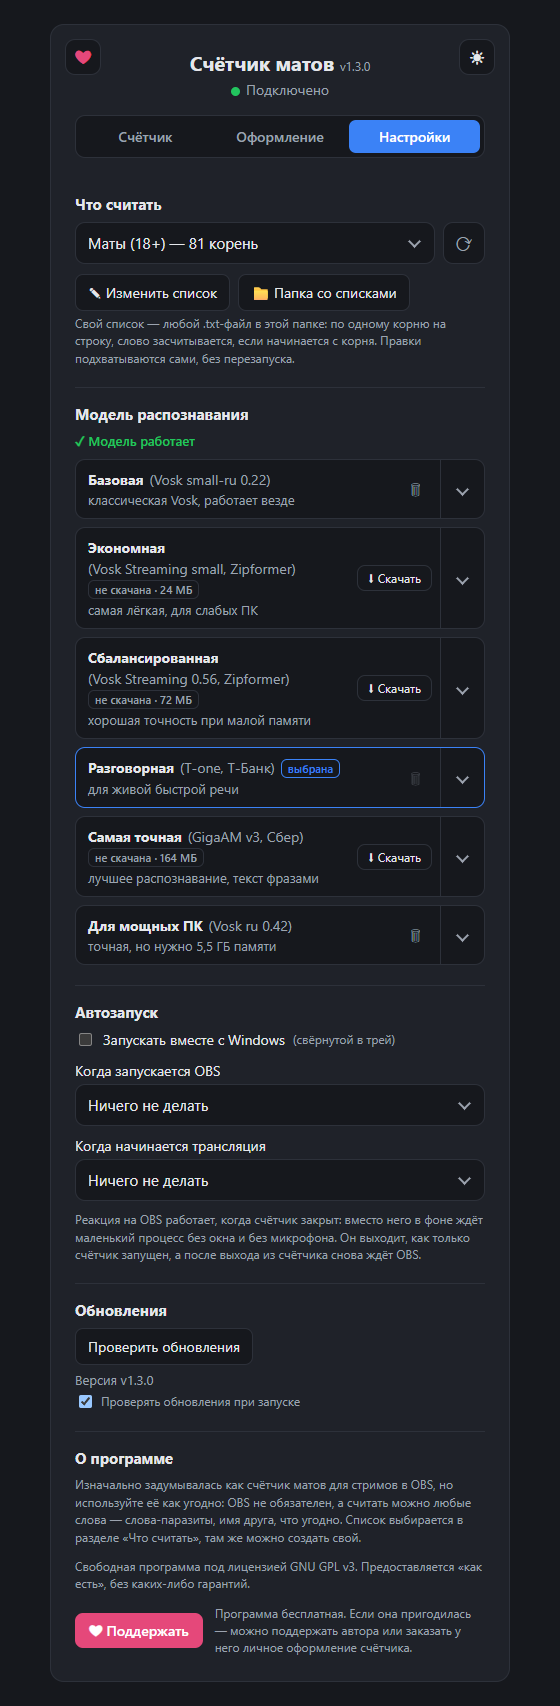
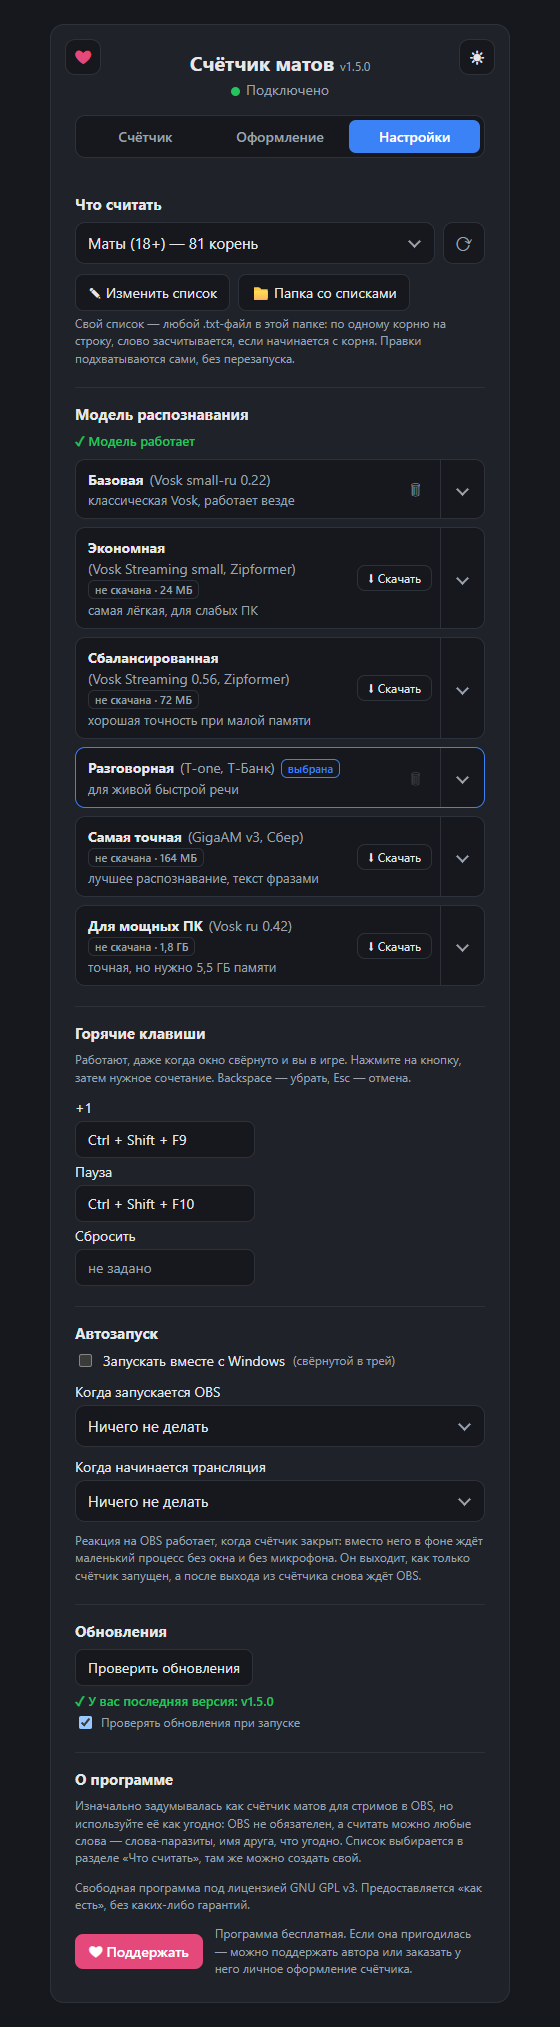
README matches release v1.5.0; fresh screenshots

diff --git a/README.md b/README.md
@@ -8,7 +8,6 @@
 
 [![Скачать](https://img.shields.io/github/v/release/vvallikk/SwearCounter?label=%D0%A1%D0%BA%D0%B0%D1%87%D0%B0%D1%82%D1%8C&style=for-the-badge)](https://github.com/vvallikk/SwearCounter/releases/latest)
 ![Windows 10/11](https://img.shields.io/badge/Windows-10%20%7C%2011-0078D6?style=for-the-badge)
-![macOS и Linux](https://img.shields.io/badge/macOS%20%7C%20Linux-%D0%B8%D0%B7%20%D0%B8%D1%81%D1%85%D0%BE%D0%B4%D0%BD%D0%B8%D0%BA%D0%BE%D0%B2-555555?style=for-the-badge)
 ![Офлайн](https://img.shields.io/badge/%D1%80%D0%B0%D0%B1%D0%BE%D1%82%D0%B0%D0%B5%D1%82-%D0%BE%D1%84%D0%BB%D0%B0%D0%B9%D0%BD-2ea44f?style=for-the-badge)
 
 [![Поддержать на Boosty](https://img.shields.io/badge/Boosty-%D0%BF%D0%BE%D0%B4%D0%B4%D0%B5%D1%80%D0%B6%D0%B0%D1%82%D1%8C-F15F2C?style=for-the-badge&logo=boosty&logoColor=white)](https://boosty.to/walikk/single-payment/donation/834276/target?share=target_link)
@@ -21,7 +20,7 @@
 > [!IMPORTANT]
 > **🔒 Ваш голос не записывается и никуда не уходит.** Речь распознаётся прямо на вашем
 > компьютере, без серверов и облаков. Программа не сохраняет ни звук, ни текст сказанного:
-> на диске остаются только счёт, статистика по найденным словам и настройки. Подробнее в разделе [Приватность](#-приватность).
+> на диске остаются только счёт и настройки. Подробнее в разделе [Приватность](#-приватность).
 
 Ругнулся, и на экране "+1" со звуком "дилинь". Не нужно жать кнопки или вести счёт вручную:
 программа слушает микрофон и считает сама.
@@ -44,29 +43,13 @@
 - 💾 **Счёт не теряется.** Он сохраняется после перезапуска программы или компьютера.
 - 🖱 **Ручное управление.** Кнопки "+1" и "Сбросить", если нужно поправить счёт.
 - ⏸ **Пауза распознавания** в окне и в трее: на перерыв, катсцену или чужой голос.
-- ⏱ **Таймер "без мата".** Сколько удалось продержаться и рекорд за сессию: в окне программы
-  и отдельным источником для OBS.
-- 🎯 **Цели и пороги.** Звёзды и фанфары на 10-м, 50-м, 100-м слове (числа настраиваются)
-  и отсчёт "осталось N до наказания" для челленджей: в окне программы и отдельным источником.
-- 📊 **Статистика сессий.** Сколько слов за каждую сессию, самые частые слова, график
-  и выгрузка таблицей CSV для Excel.
 - ⌨ **Горячие клавиши.** "+1", пауза и сброс работают, даже когда окно свёрнуто и вы в игре.
 - 📝 **Списки слов.** Готовые "Маты (18+)" и "Слова-паразиты" переключаются в окне программы.
   Свой список можно сделать в обычном текстовом файле, правки подхватываются на ходу.
-- 🔢 **Несколько счётчиков сразу.** Например, маты и слова-паразиты отдельно: у каждого
-  свой список слов, свой оверлей, оформление и подпись.
-- 📡 **Связь с OBS и Streamer.bot.** Автосброс счёта в начале трансляции или записи и смена
-  сцены по порогу. Команда `!маты` в чате Twitch и другие связки через
-  [Streamer.bot](docs/STREAMERBOT.md).
 - 🚀 **Запускается сама.** Вместе с Windows, при запуске OBS или в начале трансляции.
   Можно вместо запуска просто напомнить уведомлением.
-- 🧠 **Одиннадцать моделей распознавания.** Семь для русской речи, от экономной до самой точной
-  и устойчивого к шуму Whisper, и четыре для английской. Скачиваются и удаляются в один клик, переключаются без перезапуска.
-- 🇬🇧 **Английская речь.** Свои модели и готовые списки "English swear words" и "English filler words".
-- 🌍 **Интерфейс на английском.** Окно программы, трей и уведомления переключаются кнопкой
-  "EN" / "RU" в углу окна. Сначала выбирается по языку системы.
-- 🍎 **macOS и Linux.** Запуск из исходников, страница управления открывается в браузере
-  ([как запустить](#macos-и-linux)).
+- 🧠 **Шесть моделей распознавания.** От экономной до самой точной: скачиваются и удаляются
+  в один клик, переключаются без перезапуска.
 - 🔄 **Обновляется сама.** Сообщит о новой версии и установит её в один клик.
 - ✨ **Личные оформления.** Свой стиль, анимация и звук. Можно сделать самому
   [по инструкции](docs/PRESETS.md) или заказать у автора прямо из программы.
@@ -80,9 +63,7 @@
   серверы: ни автору, ни сторонним сервисам.
 - **Ничего не записывается.** Программа не сохраняет звук и не ведёт расшифровку:
   распознанная фраза сразу проверяется на нужные слова и забывается. На диске остаются
-  только счёт, настройки, ваши списки слов, технический журнал, в котором нет сказанного,
-  и статистика: время каждой сессии и сколько раз прозвучал каждый корень из списка слов
-  (без остального текста). Статистику можно очистить кнопкой в окне программы.
+  только счёт, настройки, ваши списки слов и технический журнал, в котором нет сказанного.
 - **Окно программы и оверлей доступны только с этого компьютера.** Встроенный сервер
   работает на адресе `localhost`, а сторонние сайты, открытые в браузере, не могут к нему обратиться.
 - **Интернет нужен только** для скачивания модели, проверки обновлений на GitHub и установки
@@ -92,7 +73,22 @@
 
 ## 🛠 В планах
 
-Всё, что было в планах, уже сделано. Если хотите что-то ещё, напишите в [Issues](https://github.com/vvallikk/SwearCounter/issues).
+- 🌍 **Английский язык.** Интерфейс на английском и распознавание английской речи
+  со своими списками слов.
+- 🧠 **Ещё один движок распознавания.** Сейчас на выбор шесть моделей: Vosk, T-one и GigaAM,
+  от экономной до самой точной. Следующий шаг: Whisper.
+- 🔢 **Несколько счётчиков сразу.** Например, маты и слова-паразиты отдельно, каждый
+  со своим оверлеем и оформлением.
+- 📊 **Статистика и история сессий.** Сколько слов за каждую сессию, самые частые слова,
+  график, выгрузка в CSV.
+- 🎯 **Цели и пороги.** Особая анимация и звук на 10-м, 50-м, 100-м слове или отсчёт
+  "осталось N до наказания" для челленджей.
+- 📡 **Связь с OBS и стрим-сервисами.** Автосброс при старте записи или трансляции, смена сцены по порогу,
+  команда `!маты` в чате Twitch, события для Streamer.bot.
+- ⏱ **Таймер "без мата".** Сколько удалось продержаться и рекорд за сессию.
+- 🍎 **macOS и Linux**, а не только Windows.
+
+Порядок не окончательный. Если хотите что-то ещё, напишите в [Issues](https://github.com/vvallikk/SwearCounter/issues).
 
 ## Как это выглядит
 
@@ -121,7 +117,7 @@
 2. **Запустите** `SwearCounter.exe`. Ничего устанавливать не нужно.
 3. **Скачайте модель распознавания** на вкладке "Настройки": нажмите "⬇ Скачать" у нужной.
    Первая скачанная модель включится сама, а между скачанными можно переключаться щелчком по карточке.
-   Все модели бесплатные и работают без интернета. Для русской речи:
+   Все модели бесплатные, работают без интернета и обучены на русской речи:
 
    | Модель                              | Скачать | Нужно памяти | Когда брать                                        |
    |-------------------------------------|---------|--------------|----------------------------------------------------|
@@ -130,13 +126,7 @@
    | Сбалансированная (Vosk Streaming)   | 72 МБ   | ~0,2 ГБ      | точнее экономной, памяти всё ещё мало              |
    | Разговорная (T-one от Т-Банка)      | 128 МБ  | ~0,5 ГБ      | быстрая и не очень чёткая речь                     |
    | Самая точная (GigaAM v3 от Сбера)   | 164 МБ  | ~0,4 ГБ      | одна из самых точных, текст появляется фразами     |
-   | Устойчивая к шуму (Whisper small)   | 360 МБ  | ~0,9 ГБ      | шум, музыка, акценты; процессор нужен мощнее       |
    | Для мощных ПК (Vosk ru 0.42)        | 1,8 ГБ  | ~5,5 ГБ      | точная, если памяти много                          |
-
-   Для английской речи переключите "Язык речи" над списком моделей на "Английский"
-   и выберите английский список слов: модели Vosk small-en-us (40 МБ), Kroko Streaming (55 МБ)
-   и Vosk en-us lgraph (125 МБ), каждой хватает до 0,5 ГБ памяти, а также Whisper small.en
-   (360 МБ, ~0,9 ГБ памяти), устойчивый к шуму.
 
 4. **Выберите микрофон** (если стримите, то тот же, что использует OBS).
 5. **Готово.** Счёт виден в окне программы. Чтобы вывести его на стрим, добавьте оверлей
@@ -145,26 +135,6 @@
 > Windows может предупредить о неизвестном издателе ("Windows защитила ваш компьютер").
 > Нажмите "Подробнее", затем "Выполнить в любом случае".
 > Проверить архив можно по SHA-256 и отчёту VirusTotal в описании релиза.
-
-### macOS и Linux
-
-Готовой сборки пока нет, программа запускается из исходников. Нужны
-[Python 3.14](https://www.python.org/downloads/) и git, а в Linux ещё PortAudio
-(`sudo apt install libportaudio2` в Ubuntu и Debian).
-
-```bash
-git clone https://github.com/vvallikk/SwearCounter.git
-cd SwearCounter
-python3.14 -m venv .venv
-.venv/bin/python -m pip install -r requirements.txt
-.venv/bin/python -m app.main
-```
-
-Окна и значка в трее здесь нет: сервер работает в терминале, а страница управления
-открывается в браузере (адрес и оверлей для OBS печатаются в терминале). Остановить
-программу можно клавишами `Ctrl+C`. В macOS при первом запуске разрешите терминалу доступ
-к микрофону. Автозапуск, горячие клавиши и самообновление пока есть только в Windows;
-обновить программу можно командой `git pull`.
 
 ## Добавление в OBS
 
@@ -186,9 +156,6 @@ python3.14 -m venv .venv
 | `color`    | цвет числа (hex без `#`)                | `color=ffcc00` |
 | `mute=1`   | без звука                               | `mute=1`       |
 | `preset`   | закрепить оформление за этим источником | `preset=neon`  |
-| `show=timer` | вместо счёта таймер "без мата"        | `show=timer`   |
-| `show=goal` | вместо счёта "осталось N" до цели      | `show=goal`    |
-| `label`    | подпись к таймеру или цели              | `label=Без мата:` |
 
 Например: `http://localhost:8765/overlay/?size=160&color=ffcc00`. Оформления:
 `classic`, `impact`, `neon`, `retro`, `minimal`, `explosion` и другие, полный список есть в окне программы.
@@ -231,8 +198,7 @@ python3.14 -m venv .venv
 <details>
 <summary><b>Считает не все маты / считает лишнее</b></summary>
 
-Попробуйте модель точнее: "Самую точную" (GigaAM), "Сбалансированную" или "Для мощных ПК",
-а если мешают шум или музыка — "Устойчивую к шуму" (Whisper). Список можно поправить кнопкой
+Попробуйте модель точнее: "Самую точную" (GigaAM), "Сбалансированную" или "Для мощных ПК". Список можно поправить кнопкой
 "✎ Изменить список" в разделе "Что считать" (см. вопрос выше): добавьте недостающий корень
 или уберите тот, что ловит обычные слова. Изменения подхватываются сами
 в течение секунды после сохранения файла, перезапускать программу не нужно.
@@ -266,24 +232,10 @@ python3.14 -m venv .venv
 
 Начало трансляции программа узнаёт от OBS по WebSocket. В OBS откройте
 "Инструменты → Настройки сервера WebSocket", включите сервер и перенесите порт и пароль
-в раздел "OBS" на вкладке "Настройки", затем нажмите "Проверить".
+в окно программы, затем нажмите "Проверить".
 
 Пока счётчик закрыт, OBS ждёт маленький фоновый процесс без окна и без микрофона.
 Он выходит, когда счётчик запущен, и снова начинает ждать после выхода из счётчика.
-</details>
-
-<details>
-<summary><b>Как сбрасывать счёт в начале стрима и менять сцену в OBS?</b></summary>
-
-На вкладке "Настройки" в разделе "OBS" укажите порт и пароль сервера WebSocket из OBS
-("Инструменты → Настройки сервера WebSocket"). Дальше можно включить:
-
-- **сброс счёта**, когда начинается трансляция или запись;
-- **смену сцены**, когда счёт дошёл до заданного числа. Нажмите ⟳, чтобы загрузить список сцен из OBS.
-
-Программа подключается к OBS, только пока что-то из этого включено, и сама переподключается,
-если OBS перезапустили. Команда `!маты` в чате Twitch делается через Streamer.bot:
-[инструкция](docs/STREAMERBOT.md).
 </details>
 
 <details>
@@ -315,8 +267,7 @@ python3.14 -m venv .venv
 <details>
 <summary><b>Где хранятся мои данные?</b></summary>
 
-Всё рядом с `SwearCounter.exe`: счёт (`counter.json`), дополнительные счётчики (`counters.json`),
-статистика (`stats.json`), настройки (`settings.json`),
+Всё рядом с `SwearCounter.exe`: счёт (`counter.json`), настройки (`settings.json`),
 звуки (`sounds/`), списки слов (`wordlists/`), личные оформления (`presets/`),
 модели (`models/`) и журнал работы
 (`swearcounter.log`, пригодится при сообщении об ошибке). Чтобы перенести программу, просто скопируйте папку целиком.
@@ -387,16 +338,13 @@ python3.14 -m venv .venv
   [Alpha Cephei](https://alphacephei.com/). Они являются собственностью Alpha Cephei Inc.
   и распространяются по лицензии [Apache 2.0](https://github.com/alphacep/vosk-api/blob/master/COPYING).
 - [sherpa-onnx](https://github.com/k2-fsa/sherpa-onnx) от команды k2-fsa (Apache 2.0):
-  запускает модели Vosk Streaming, Kroko, T-one, GigaAM и Whisper.
-- [Kroko ASR](https://huggingface.co/Banafo/Kroko-ASR) от Banafo: английская модель Kroko Streaming
-  (лицензия CC-BY-SA, скачивается в программе).
+  запускает модели Vosk Streaming, T-one и GigaAM.
 - [T-one](https://github.com/voicekit-team/T-one) от Т-Банка (Apache 2.0).
 - [GigaAM](https://github.com/salute-developers/GigaAM) от Сбера (MIT).
-- [Whisper](https://github.com/openai/whisper) от OpenAI (MIT).
 - [Silero VAD](https://github.com/snakers4/silero-vad) от команды Silero (MIT):
-  находит фразы в речи для моделей GigaAM и Whisper.
+  находит фразы в речи для модели GigaAM.
 
-Спасибо их авторам за то, что качественное офлайн-распознавание речи доступно всем бесплатно.
+Спасибо их авторам за то, что качественное офлайн-распознавание русской речи доступно всем бесплатно.
 
 ## Лицензия
 
